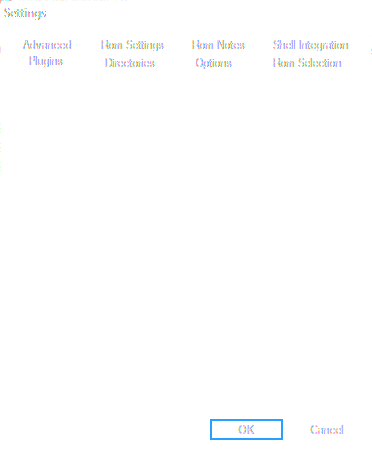
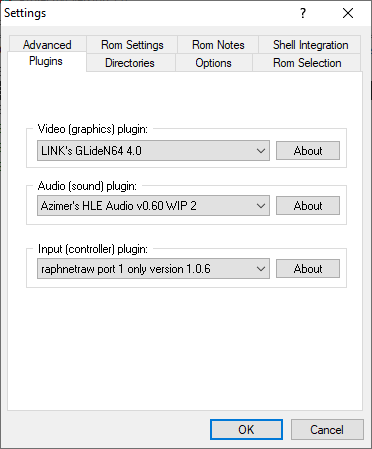
add plugin selection info

diff --git a/plugin_setup.md b/plugin_setup.md
@@ -6,6 +6,10 @@ By default, Project64 1.6 comes with Jabo plugins. While they generally work, th
 All the necessary plugins are already included with the provided Project64 build, but if you did the installation manually, you will have to install the plugins manually, too. This is typically done by copying the plugin .dll files, as well as any other files into the Plugin folder inside Project64's installation directory.
 !!!
 
+## Plugin selection
+
+The plugins can be changed by opening the **Options -> Settings** menu. The **Plugins** tab should be selected by default.
+
 ### Graphics plugins
 - **Recommended:** [**LINK's GLideN64**](gliden64_link.md)
 - Alternatives: [GLideN64 rev.8004dc2](gliden64_old.md) or [glN64](gln64.md)
